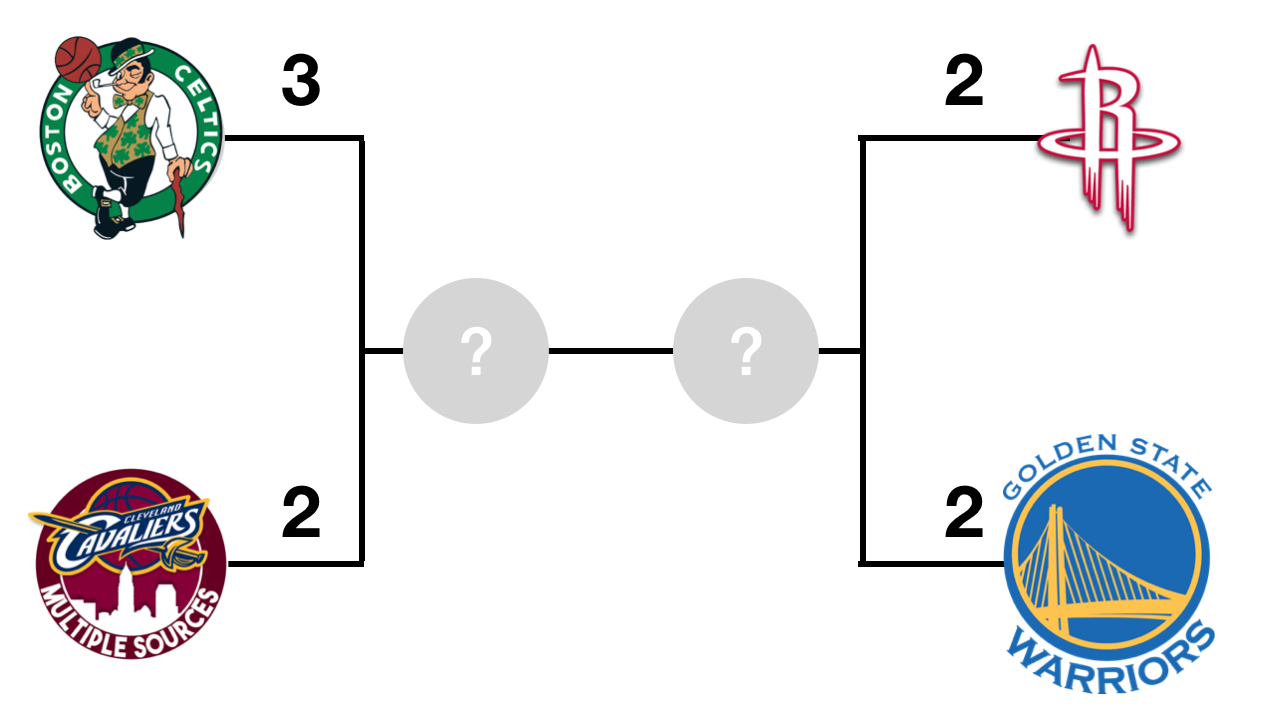
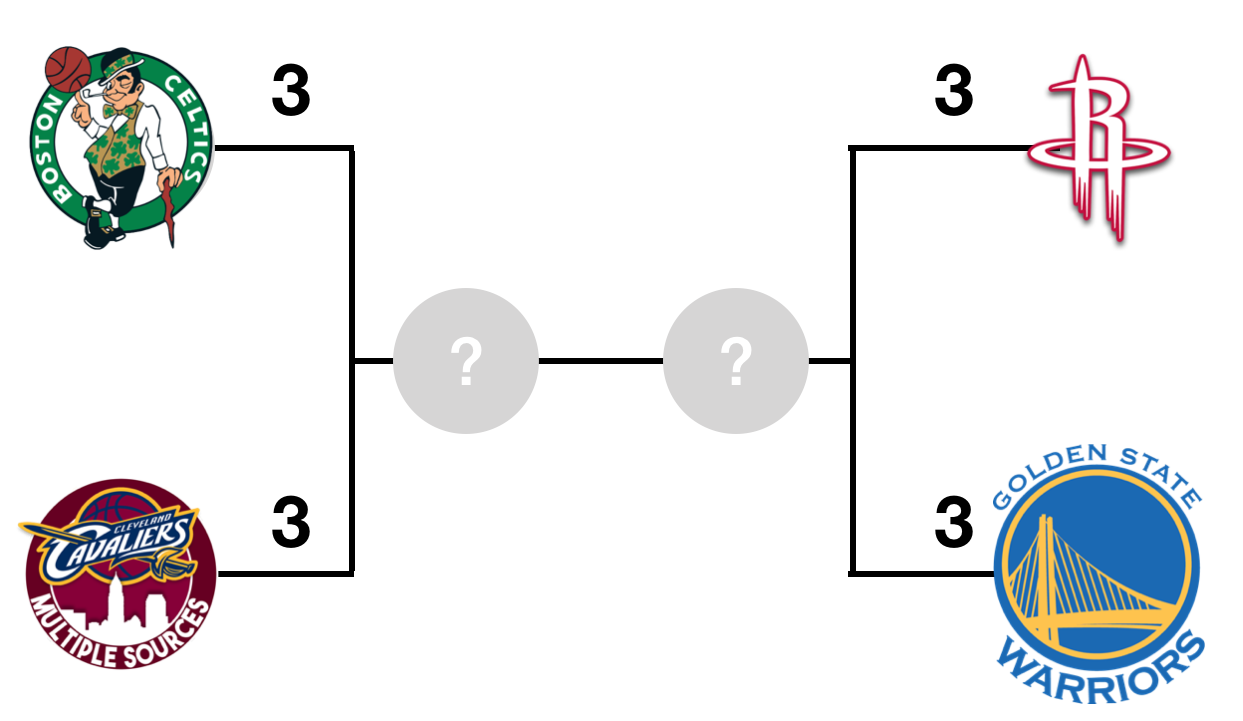
ss

diff --git a/script/app.js b/script/app.js
@@ -59,6 +59,24 @@ app.controller('myCtrl', function($scope) {
         roadTeam: CAV,
         roadScore: 83,
         date: '5-24'
+    }, {
+        homeTeam: ROC,
+        homeScore: 98,
+        roadTeam: WAR,
+        roadScore: 94,
+        date: '5-25'
+    }, {
+        homeTeam: CAV,
+        homeScore: 109,
+        roadTeam: CEL,
+        roadScore: 99,
+        date: '5-26'
+    }, {
+        homeTeam: WAR,
+        homeScore: 115,
+        roadTeam: ROC,
+        roadScore: 86,
+        date: '5-27'
     }];
 
     $scope.data = [{
